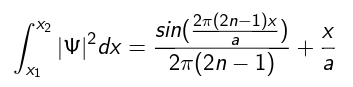
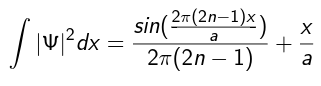
FIX resize problem && CHANGE formula2 image

diff --git a/index2.html b/index2.html
@@ -57,32 +57,26 @@
               <div class="collapsible-header center-align">Representació Gràfica de la funció d'ona</div>
               <div class="collapsible-body">
                 <div class="row">
-                  <div class="col l6 m6 s12">
+                  <div class="col s12">
                     <div id="plot1"></div>
                   </div>
-                  <div class="col l6 m6 s12">
+                  <div class="col s12">
                     <div class="row">
                       <div class="col l12 s12">
                         <img class="center" src="./img/formula1.png" alt="wave function">
                       </div>
                     </div>
                     <div class="row">
-                      <div class="col l12 s12">
-                        <span>Nombre de Nivells:</span>
-                        <div class="row">
-                          <div class="col l2 s12">
-                            <input type="number" min="1" max="7" value="1" id="level1">
-                          </div>
-                          <div class="col l10 s12">
-                            <input type="range" min="1" max="7" value="1" id="sliderLevel1">
-                          </div>
-                        </div>
-                      </div>
-                    </div>
-                    <div class="row">
-                      <div class="col l12 s12">
+                      <div class="col l4 s12">
                         <span>Mida del pou:</span>
                         <input type="number" min="1" max="20" value="1" id="longitude1">
+                      </div>
+                      <div class="col l3 s12">
+                        <span>Nombre de Nivells:</span>
+                        <input type="number" min="1" max="7" value="1" id="level1">
+                      </div>
+                      <div class="col l5 s12">
+                        <input type="range" min="1" max="7" value="1" id="sliderLevel1">
                       </div>
                     </div>
                   </div>
@@ -93,45 +87,39 @@
               <div class="collapsible-header center-align">Densitat i probabilitat de trobar la partícula</div>
               <div class="collapsible-body">
                 <div class="row">
-                  <div class="col l6 s12">
+                  <div class="col s12">
                     <div id="plot2"></div>
                   </div>
-                  <div class="col l6 s12">
+                  <div class="col s12">
                     <div class="row">
-                      <div class="col l12 s12">
+                      <div class="col s12">
                         <img class="center" src="./img/formula2.png" alt="density wave function">
                       </div>
                     </div>
                     <div class="row">
-                      <div class="col l12 s12">
-                        <span>Nombre de Nivells:</span>
-                        <div class="row">
-                          <div class="col l2 s12">
-                            <input type="number" min="1" max="7" value="1" id="level2">
-                          </div>
-                          <div class="col l10 s12">
-                            <input type="range" min="1" max="7" value="1" id="sliderLevel2">
-                          </div>
+                        <div class="col m1 s12">
+                          <span>Nivell:</span>
+                          <input type="number" min="1" max="7" value="1" id="level2">
                         </div>
-                      </div>
-                    </div>
-                    <div class="row">
-                      <div class="col l3 s12">
-                        <span>Mida del pou:</span>
-                        <input type="number" min="1" max="20" value="1" id="longitude2">
-                      </div>
-                      <div class="col l3 s12">
-                        <span>Inici del rang:</span>
-                        <input type="number" value="-0.5" step="0.1"id="aBox2">
-                      </div>
-                      <div class="col l3 s12">
-                        <span>Final del rang:</span>
-                        <input type="number" value="0.5" step="0.1"id="bBox2">
-                      </div>
-                      <div class="col l3 s12">
-                        <span>Probabilitat:</span>
-                        <input type="number" value="1" id="result2" readonly>
-                      </div>
+                        <div class="col m3 s12">
+                          <input type="range" min="1" max="7" value="1" id="sliderLevel2">
+                        </div>
+                        <div class="col m2 s12">
+                          <span>Mida:</span>
+                          <input type="number" min="1" max="20" value="1" id="longitude2">
+                        </div>
+                        <div class="col m2 s12">
+                          <span>X1:</span>
+                          <input type="number" value="-0.5" step="0.1"id="aBox2">
+                        </div>
+                        <div class="col m2 s12">
+                          <span>X2:</span>
+                          <input type="number" value="0.5" step="0.1"id="bBox2">
+                        </div>
+                        <div class="col m2 s12">
+                          <span>Probabilitat:</span>
+                          <input type="number" value="1" id="result2" readonly>
+                        </div>
                     </div>
                   </div>
                 </div>
@@ -141,42 +129,36 @@
               <div class="collapsible-header center-align">Representar i calcular els nivells d'energia i moment</div>
               <div class="collapsible-body">
                 <div class="row">
-                  <div class="col l6 s12">
+                  <div class="col s12">
                     <div id="plot3"></div>
                   </div>
-                  <div class="col l6 s12">
+                  <div class="col s12">
                     <div class="row">
                       <div class="col l12 s12">
                         <img class="center" src="./img/elevelsmoment.png" alt="energy levels and moment formulas">
                       </div>
                     </div>
                     <div class="row">
-                      <div class="col l12 s12">
-                        <span>Nombre de Nivells:</span>
-                        <div class="row">
-                          <div class="col l2 s12">
-                            <input type="number" min="1" max="7" value="1" id="level3">
-                          </div>
-                          <div class="col l10 s12">
-                            <input type="range" min="1" max="7" value="1" id="sliderLevel3">
-                          </div>
-                        </div>
+                      <div class="col l1 s12">
+                        <span>Nivell:</span>
+                        <input type="number" min="1" max="7" value="1" id="level3">
                       </div>
-                    </div>
-                    <div class="row">
                       <div class="col l3 s12">
+                        <input type="range" min="1" max="7" value="1" id="sliderLevel3">
+                      </div>
+                      <div class="col l2 s12">
                         <span>Mida del pou:</span>
                         <input type="number" min="1" max="20" value="1" id="longitude3">
                       </div>
-                      <div class="col l3 s12">
+                      <div class="col l2 s12">
                         <span>Massa:</span>
                         <input type="number" value="1" step="0.01" id="mBox3">
                       </div>
-                      <div class="col l3 s12">
+                      <div class="col l2 s12">
                         <span>Energia:</span>
                         <input type="number" id="energy3" readonly>
                       </div>
-                      <div class="col l3 s12">
+                      <div class="col l2 s12">
                         <span>Moment:</span>
                         <input type="number" id="momentum3" readonly>
                       </div>
